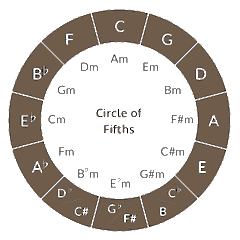
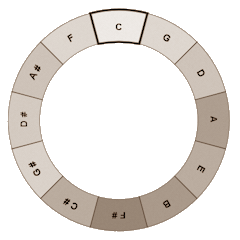
Various Fixes
- GUI Trigger z-index
- Tools Icons
- Link Categories Order by Name

diff --git a/front/src/app/tools/components/tool-list/tool-list.component.scss b/front/src/app/tools/components/tool-list/tool-list.component.scss
@@ -1,0 +1,33 @@
+.tools-icons
+{
+    margin-top: 25px;
+    display: flex;
+    justify-content: center;
+
+    a
+    {
+        display: flex;
+        justify-content: center;
+        align-items: center;
+
+        height: 150px;
+        width: 150px;
+
+        background-color: rgb(107, 82, 64, 0.1);
+        border: 1px solid grey;
+        border-radius: 10px;
+
+        margin: 15px;
+
+        img
+        {
+            height: 85%;
+        }
+    }
+    a:hover
+    {
+        background-color: rgb(107, 82, 64, 0.4);
+        border: 1px solid var(--colorMain);
+        transition-duration: 500ms;
+    }
+}

diff --git a/front/src/app/tools/components/tool-list/tool-list.component.html b/front/src/app/tools/components/tool-list/tool-list.component.html
@@ -1,9 +1,10 @@
 <div id="layout-central">
-    <div class="section-flex">
-        <section>
-            <br/>
-            <p>▸ <a routerLink="/tools/circle-of-fifths"> Circle of Fifths</a></p>
-            <p>▸ <a routerLink="/tools/chord-wheel"> Chord Wheel</a></p>
-        </section>
+    <div class="tools-icons">
+        <a routerLink="/tools/circle-of-fifths"> 
+            <img src="../../../../assets/app_icons/circle_fifths.png">
+        </a>
+        <a routerLink="/tools/chord-wheel">
+            <img src="../../../../assets/app_icons/chord_wheel.png">
+        </a>
     </div>
 </div>

diff --git a/front/src/app/moods/components/mood-details/mood-details.component.html b/front/src/app/moods/components/mood-details/mood-details.component.html
@@ -1,4 +1,4 @@
-<app-menu-right-desktop *ngIf="mood() as flow">
+<app-menu-right-desktop *ngIf="mood() as flow" (click)="menuTrigger()">
     <div class="content_right_desktop">
         <!-- Related Tags -->
         <h1 class="item-top">Related Tags ( {{ flow.tags.length }} )</h1>

diff --git a/front/src/design/central/elements_boxes.scss b/front/src/design/central/elements_boxes.scss
@@ -485,7 +485,7 @@
     justify-content: center;
     align-items: center;
 
-    z-index: 99;
+    z-index: 20;
     transition-duration: 500ms;
 
     .tags-trigger-arrow

diff --git a/back/MB.Application/Features/LinkCategories/Queries/GetLinkCategoriesList/GetLinkCategoriesListQueryHandler.cs b/back/MB.Application/Features/LinkCategories/Queries/GetLinkCategoriesList/GetLinkCategoriesListQueryHandler.cs
@@ -20,7 +20,7 @@ namespace MB.Application.Features.LinkCategories.Queries.GetLinkCategoriesList
         {
             try
             {
-                var linkCategories = await _linkCategoryRepository.GetAllAsync();
+                var linkCategories = await _linkCategoryRepository.GetAllAsync(category => category.Name, true);
 
                 var response = new GetLinkCategoriesListQueryResponse
                 {
